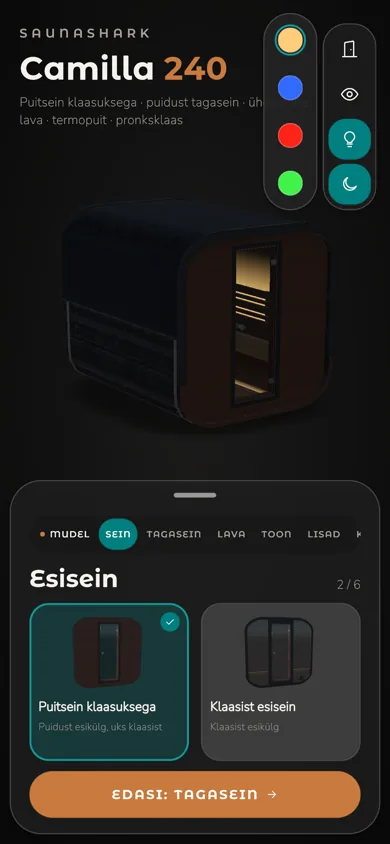
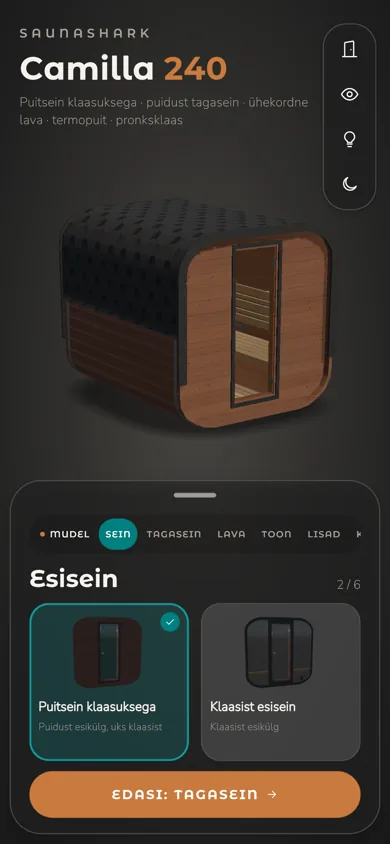
Konfiguraatori plokk: telefonikaader päevavaates (kasutaja: must öö ära)
Camilla 240, LED ja öövaade väljas, Sein-samm: puitesisein valitud, kaks esiseina
detailpilti näha. Samad failinimed (konf-telefon-390/780.webp + .jpg), srcset sama;
alt ET/EN uuendatud. Kontroll 1440/390, ET/EN: ülevoolu pole.

Claude-Session: https://claude.ai/code/session_012LWouc3PHV9x62v9z72qBV

diff --git a/index.html b/index.html
@@ -1391,8 +1391,8 @@ model-viewer::part(default-progress-bar){height:3px}
               <source type="image/webp" srcset="pildid/konf-telefon-390.webp 390w, pildid/konf-telefon-780.webp 780w"
                       sizes="(max-width:760px) 62vw, 22vw">
               <img src="pildid/konf-telefon-780.jpg" width="780" height="1688" loading="lazy" decoding="async"
-                   alt="Konfiguraator telefonis: öövaade, LED-valgus sees ja värvivalik, all esiseina valik"
-                   data-en-alt="The configurator on a phone: night view with LED lighting and colour choice, front wall options below">
+                   alt="Konfiguraator telefonis: puitesiseinaga saun, all esiseina valik kahe detailpildiga"
+                   data-en-alt="The configurator on a phone: a sauna with a timber front wall, front wall options with two detail images below">
             </picture>
           </figure>
           <span class="media-note" data-en="The real interface · computer and phone · Unity WebGL">Päris kasutajaliides · arvuti ja telefon · Unity WebGL</span>
